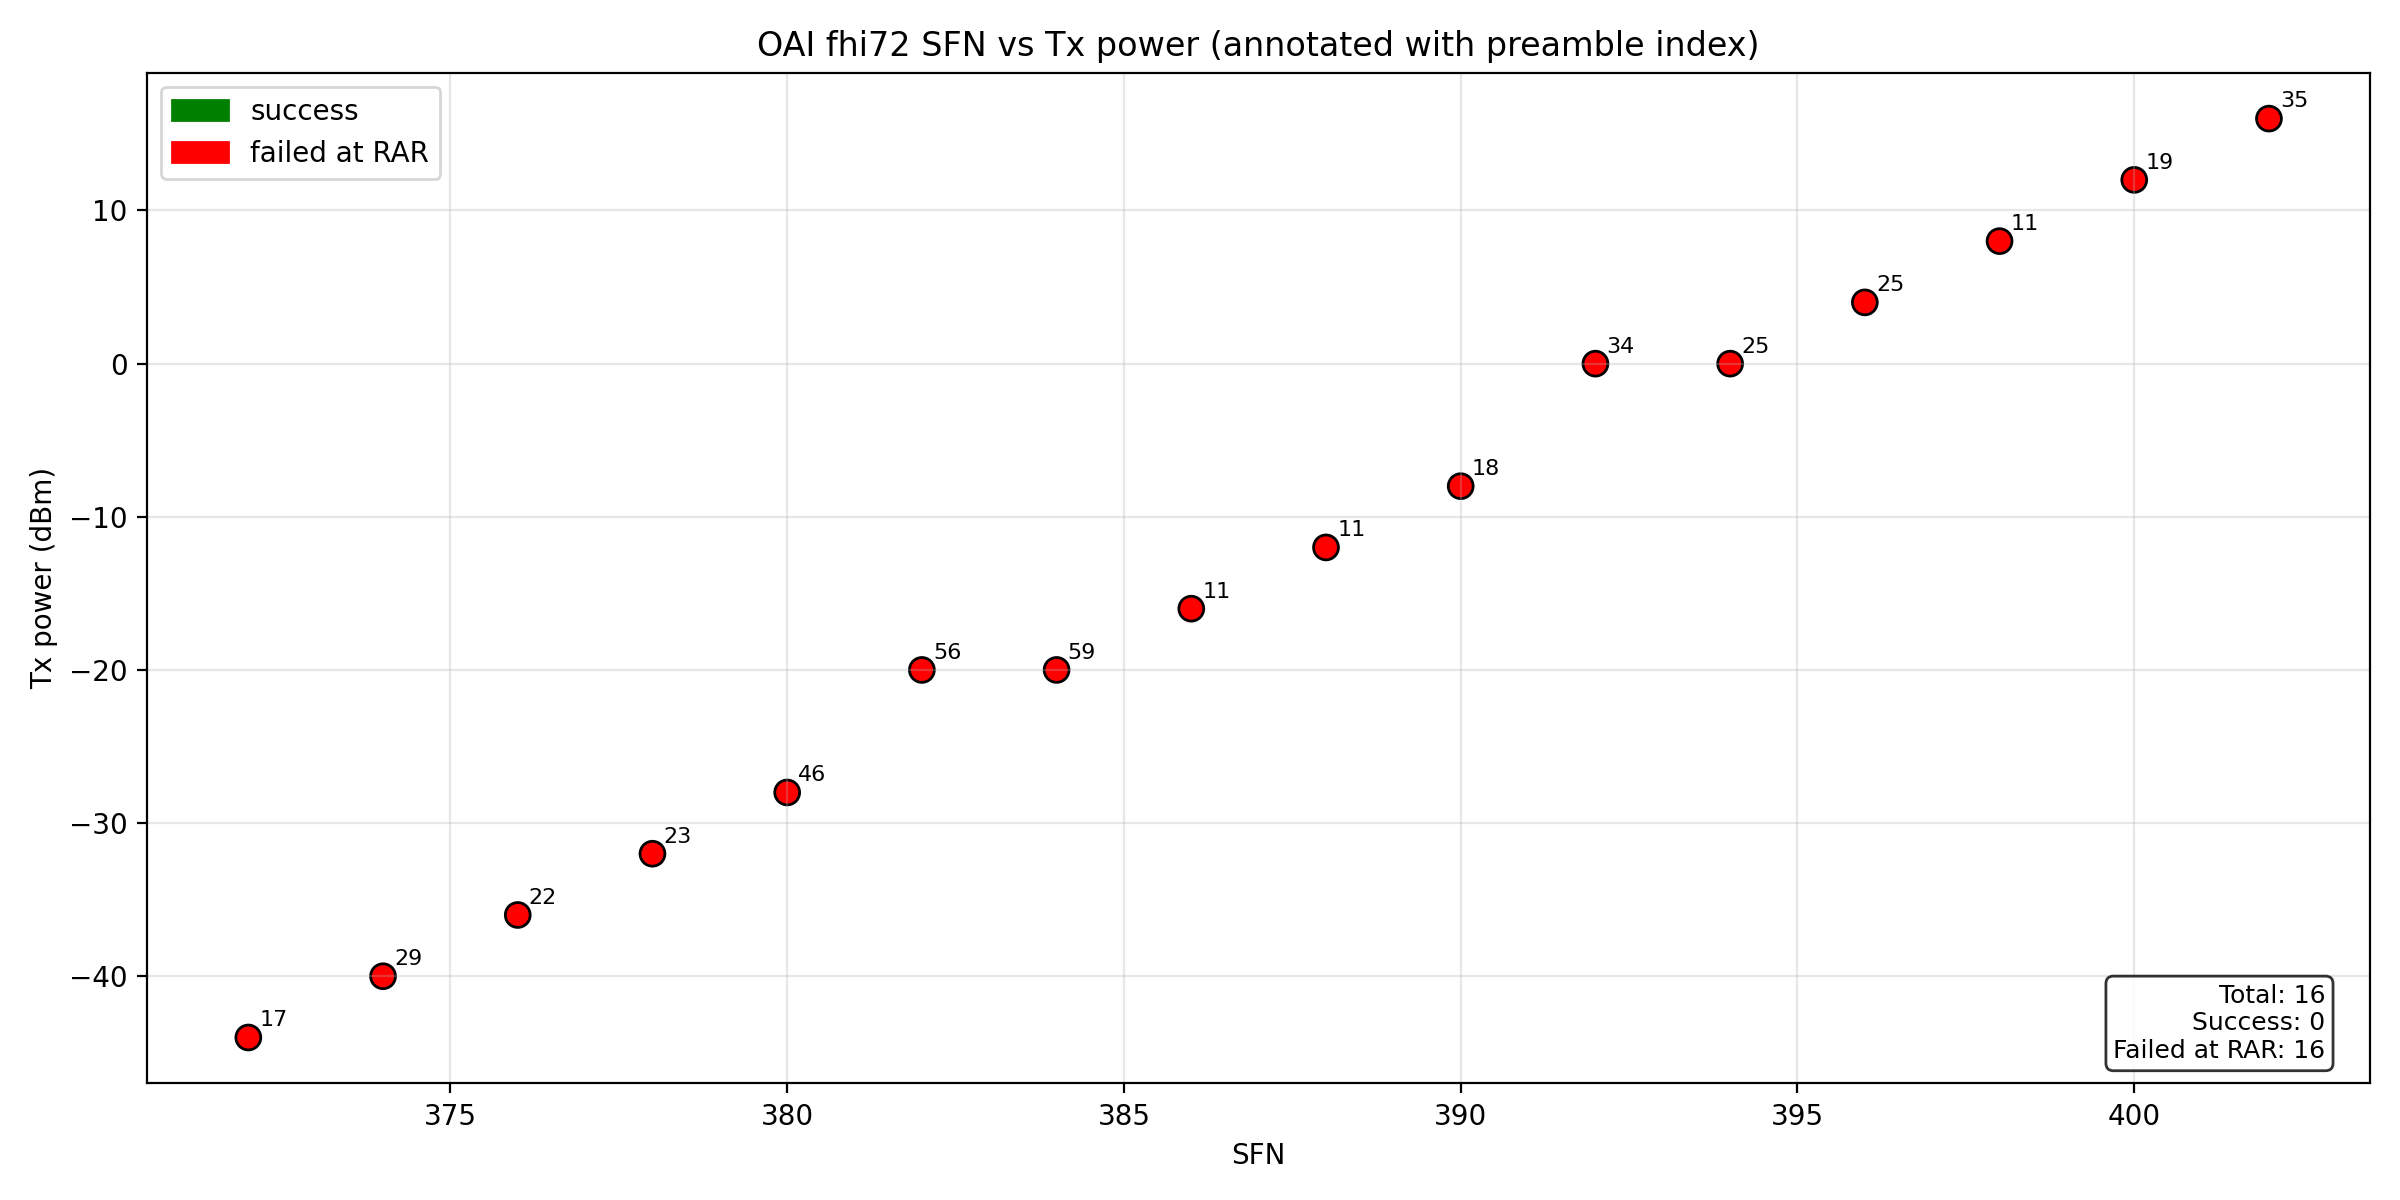
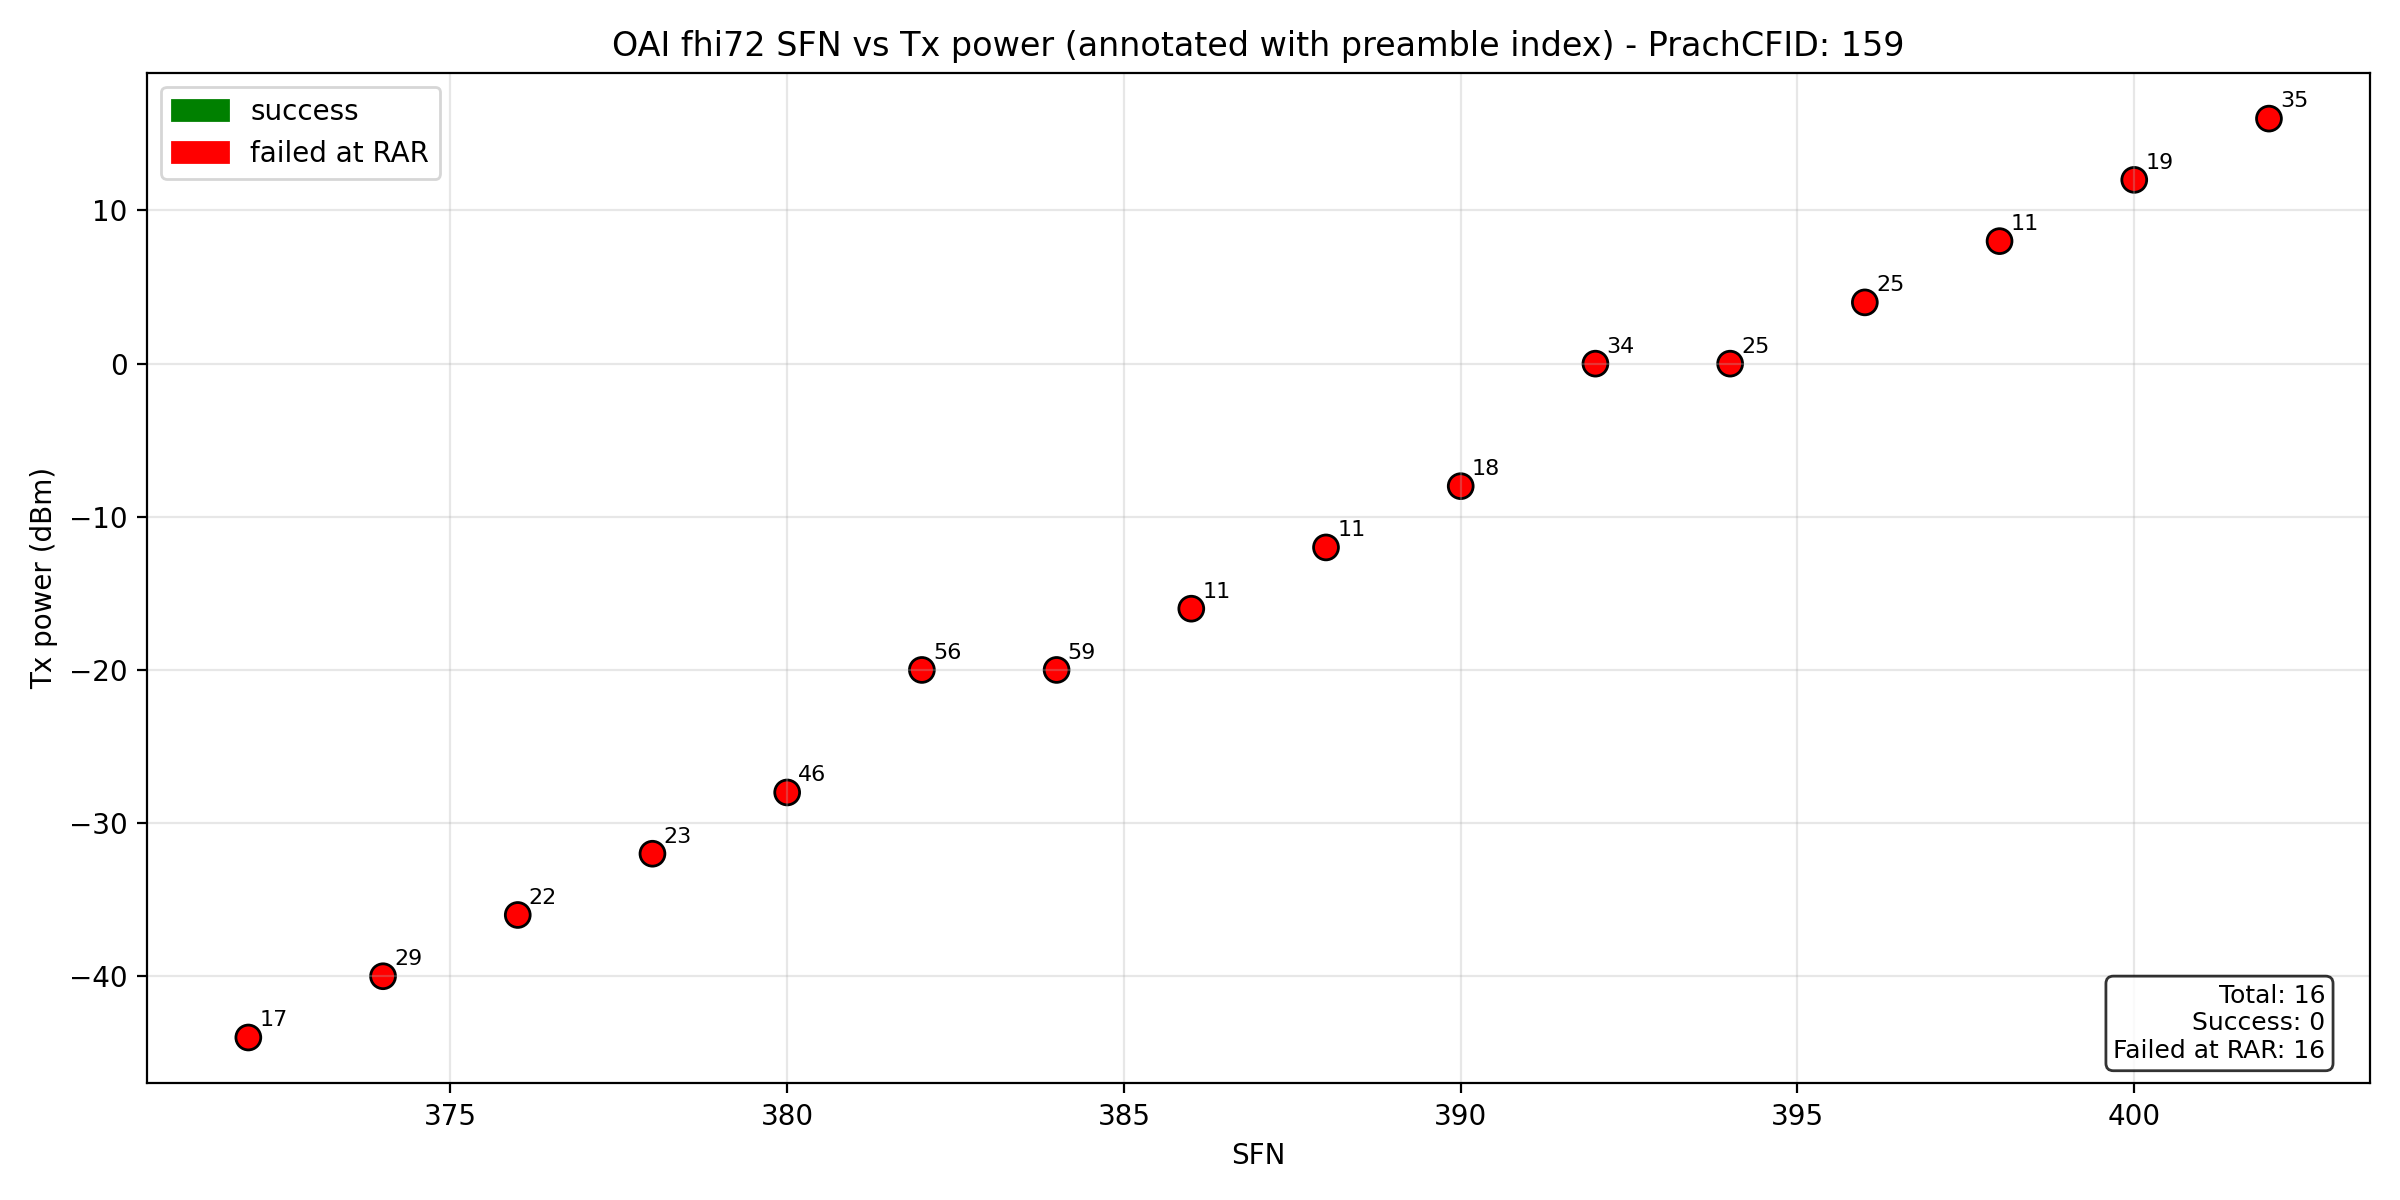
replace file name

Changed region(s): [[0.25, 0.0, 0.7812, 0.0617]]

diff --git a/1205/MTKUE-rammping.py b/1205/MTKUE-rammping.py
@@ -1,26 +1,22 @@
 DATA = """
 # MTKUE 1205 PrachCFID:159 B4 log power rammping 4 db
 SFN/SFN/SLOT/SYMBOL,attempt time,preamble index,Tx power
-404|9|1|0,16,46,-45 dbm
-406|9|1|0,17,56,-43 dbm
-408|9|1|0,18,59,-41 dbm
-410|9|1|0,19,11,-39 dbm
-412|9|1|0,20,11,-37 dbm
-414|9|1|0,21,18,-35 dbm
-416|9|1|0,22,34,-33 dbm
-418|9|1|0,23,25,-29 dbm
-420|9|1|0,24,25,-29 dbm
-422|9|1|0,25,11,-27 dbm
-424|9|1|0,26,19,-25 dbm
-426|9|1|0,27,35,-23 dbm
-428|9|1|0,28,4,-21 dbm
-430|9|1|0,29,22,-17 dbm
-432|9|1|0,30,45,-17 dbm
-434|9|1|0,31,33,-15 dbm
-436|9|1|0,32,12,-13 dbm
-438|9|1|0,33,27,-11 dbm
-440|9|1|0,34,39,-7 dbm
-
+372|9|1|0,1,17,-44 dbm
+374|9|1|0,2,29,-40 dbm
+376|9|1|0,3,22,-36 dbm
+378|9|1|0,4,23,-32 dbm
+380|9|1|0,5,46,-28 dbm
+382|9|1|0,6,56,-20 dbm
+384|9|1|0,7,59,-20 dbm
+386|9|1|0,8,11,-16 dbm
+388|9|1|0,9,11,-12 dbm
+390|9|1|0,10,18,-8 dbm
+392|9|1|0,11,34,0 dbm
+394|9|1|0,12,25,0 dbm
+396|9|1|0,12,25,4 dbm
+398|9|1|0,13,11,8 dbm
+400|9|1|0,14,19,12 dbm
+402|9|1|0,15,35,16 dbm
 
 """
 
